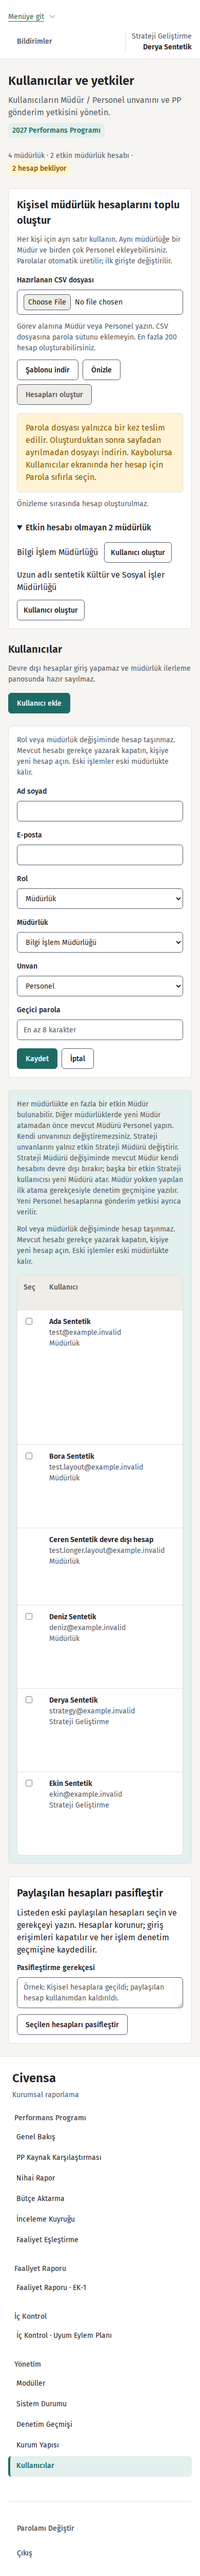
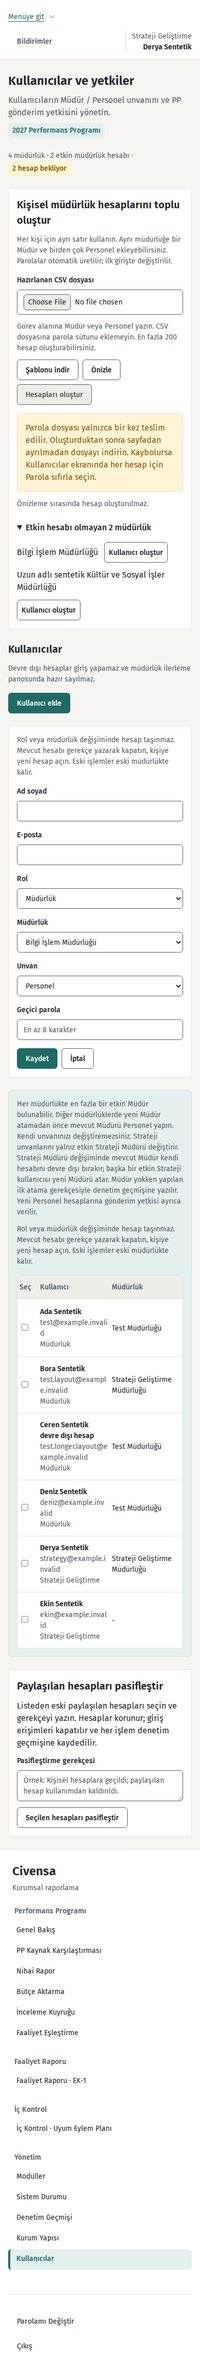
CIV-142 Kullanıcılar tablosu düzeni

Changed region(s): [[0.0308, 0.0, 0.9538, 0.9935], [0.3692, 0.8693, 0.4308, 0.9003]]

diff --git a/app/static/design/users.css b/app/static/design/users.css
@@ -33,7 +33,7 @@
 .users-page .button.primary { color: var(--surface); background: var(--accent); border-color: var(--accent); }
 .users-page .button.primary:hover { background: var(--accent-hover); border-color: var(--accent-hover); }
 .users-page .button:disabled { opacity: 1; color: var(--text-secondary); background: var(--surface-muted); border-color: var(--text-secondary); cursor: not-allowed; }
-.users-page .button.small { min-height: var(--row-height); padding: var(--space-1) var(--space-3); }
+.users-page .button.small { min-height: var(--row-height); padding: var(--space-1) var(--space-2); }
 .users-page details { margin-top: var(--space-6); }
 .users-page summary { width: fit-content; max-width: 100%; color: var(--text); font-size: var(--text-base); font-weight: var(--font-medium); cursor: pointer; }
 .users-page .missing-departments { display: grid; gap: var(--space-3); max-width: 44rem; margin: var(--space-4) 0 0; padding: 0; list-style: none; }
@@ -42,29 +42,35 @@
 .users-page .table-wrap { width: 100%; max-width: 100%; overflow-x: auto; border: 1px solid var(--border); border-radius: var(--radius); background: var(--surface); }
 .users-page .users-table { margin-top: var(--space-4); }
 .users-page table { width: 100%; min-width: 0; margin: 0; border-collapse: collapse; table-layout: fixed; }
-.users-page :is(th, td) { padding: var(--space-3); border-bottom: 1px solid var(--border); font-size: var(--text-sm); text-align: left; vertical-align: top; }
+.users-page :is(th, td) { padding: var(--space-3) var(--space-1); border-bottom: 1px solid var(--border); font-size: var(--text-sm); text-align: left; vertical-align: middle; }
 .users-page th { color: var(--text-secondary); background: var(--surface-muted); font-weight: var(--font-medium); }
-.users-page .users-table th:nth-child(1) { width: 5%; }
-.users-page .users-table th:nth-child(2) { width: 26%; }
-.users-page .users-table th:nth-child(3) { width: 16%; }
-.users-page .users-table th:nth-child(4) { width: 26%; }
-.users-page .users-table th:nth-child(5) { width: 12%; }
-.users-page .users-table th:nth-child(6) { width: 15%; }
+.users-page .users-table th:nth-child(1) { width: 4%; }
+.users-page .users-table th:nth-child(2) { width: 14%; }
+.users-page .users-table th:nth-child(3) { width: 14%; }
+.users-page .users-table th:nth-child(4) { width: 25%; }
+.users-page .users-table th:nth-child(5) { width: 16%; }
+.users-page .users-table th:nth-child(6) { width: 27%; }
 .users-page .user-identity :is(.user-email, .user-role) { display: block; }
 .users-page .user-email { overflow-wrap: break-word; }
-.users-page .user-position-controls { display: flex; align-items: center; flex-wrap: wrap; gap: var(--space-2); }
+.users-page .user-position-controls { display: flex; align-items: center; flex-wrap: nowrap; gap: var(--space-2); }
 .users-page .user-position-controls label { position: relative; flex: 1 1 7rem; }
-.users-page .user-position-controls .button { flex: 0 0 auto; }
+.users-page .user-position-controls .button { flex: 0 0 auto; white-space: nowrap; }
 .users-page tbody tr:last-child td { border-bottom: 0; }
 .users-page .status { display: inline-block; padding: var(--space-1) var(--space-2); border-radius: var(--radius); color: var(--text-secondary); background: var(--surface-muted); font-size: var(--text-sm); font-weight: var(--font-medium); }
 .users-page .status.approved { color: var(--success); background: var(--success-bg); }
 .users-page .status.warning { color: var(--warning); background: var(--warning-bg); }
 .users-page :is(.status.returned, .status.draft) { color: var(--text-secondary); background: var(--surface-muted); }
-.users-page .rowbuttons { flex-direction: column; margin-top: var(--space-2); }
-.users-page :is(.save-user-position, .toggle-submit-authorization) { margin-top: var(--space-2); }
-.users-page .password-reset { display: grid; gap: var(--space-2); min-width: 0; margin-top: var(--space-3); }
-.users-page .password-reset input { min-width: 0; }
-.users-page .password-reset button { justify-self: start; }
+.users-page .users-table td:nth-child(5) { white-space: nowrap; }
+.users-page .users-table td:last-child { white-space: nowrap; }
+.users-page .users-table :is(.status, .toggle-submit-authorization, .rowbuttons) { vertical-align: top; }
+.users-page .users-table .rowbuttons { display: inline-flex; align-items: flex-start; flex-flow: row nowrap; gap: var(--space-1); margin: 0; }
+.users-page .users-table .button.small { flex: 0 0 auto; white-space: nowrap; }
+.users-page .users-table .show-password-reset { border-color: transparent; background: transparent; color: var(--accent); font-size: var(--text-xs); }
+.users-page .users-table .show-password-reset:hover { background: var(--surface-muted); color: var(--accent-hover); }
+.users-page :is(.save-user-position, .toggle-submit-authorization) { margin-top: 0; }
+.users-page .password-reset { display: flex; align-items: center; flex-wrap: nowrap; gap: var(--space-2); min-width: 0; margin-top: var(--space-2); }
+.users-page .password-reset input { flex: 1 1 0; width: auto; min-width: 0; }
+.users-page .password-reset button { flex: 0 0 auto; }
 .users-page .users-retire label { width: 100%; max-width: 44rem; }
 .users-page textarea { min-height: var(--space-12); resize: vertical; }
 .users-page #retireUsersResult:not(:empty) { margin-top: var(--space-3); }

diff --git a/tests/test_users_design.py b/tests/test_users_design.py
@@ -231,6 +231,54 @@ def test_browser_layout_contrast_and_existing_controls(browser, accounts, users_
         expect(page.locator('#newUserForm')).to_be_visible()
         expect(page.locator('#userName')).to_be_focused()
         row = page.locator('tr[data-user]').filter(has_text='Ada Sentetik')
+        folder = os.getenv('CIVENSA_CIV130_SCREENSHOTS')
+        if phase == 'after' and width == 1440:
+            assert page.locator('.users-table tbody tr').evaluate_all("""rows => {
+              const unwrapped = rows.filter(row => {
+                const identity = row.querySelector('.user-identity');
+                return [...identity.querySelectorAll('b, .user-email')].every(el => {
+                  const range = document.createRange();
+                  range.selectNodeContents(el);
+                  return new Set([...range.getClientRects()].map(rect => Math.round(rect.top))).size <= 1;
+                });
+              });
+              return new Set(unwrapped.map(row => Math.round(row.getBoundingClientRect().height))).size <= 1;
+            }""")
+            button_layout = page.locator('.users-table .button.small').evaluate_all("""buttons => {
+              const heights = buttons.filter(button => button.getClientRects().length)
+                .map(button => button.getBoundingClientRect().height);
+              const paddings = buttons.map(button => getComputedStyle(button).padding);
+              const lines = buttons.map(button => {
+                const range = document.createRange();
+                range.selectNodeContents(button);
+                return new Set([...range.getClientRects()].map(rect => Math.round(rect.top))).size <= 1;
+              });
+              return {heights, paddings, lines};
+            }""")
+            assert (len(set(button_layout['heights'])) == 1 and
+                    len(set(button_layout['paddings'])) == 1 and
+                    all(button_layout['lines'])), button_layout
+            alignment = page.locator('.users-table tbody tr').evaluate_all("""rows => {
+              const pairs = rows.flatMap(row => {
+                const auth = row.querySelector('td:nth-child(5) .toggle-submit-authorization');
+                const authBadge = row.querySelector('td:nth-child(5) .status');
+                const active = row.querySelector('.toggle-user-active');
+                const activeBadge = row.querySelector('td:last-child > .status');
+                return [[authBadge, auth], [activeBadge, active]].filter(([badge, action]) => badge && action);
+              });
+              return pairs.map(([badge, action]) => [
+                badge.getBoundingClientRect().top, action.getBoundingClientRect().top
+              ]);
+            }""")
+            assert all(abs(badge_top - action_top) <= 2
+                       for badge_top, action_top in alignment), alignment
+        if folder and phase == 'after' and missing and width == 1440:
+            target = Path(folder)
+            target.mkdir(parents=True, exist_ok=True)
+            page.evaluate('document.activeElement.blur()')
+            page.mouse.move(0, 0)
+            page.evaluate('scrollTo(0, 0)')
+            page.screenshot(path=str(target / 'users-after-1440.png'), full_page=True)
         row.locator('.show-password-reset').click()
         expect(row.locator('.password-reset')).to_be_visible()
         expect(row.locator('.password-reset input')).to_be_focused()
@@ -256,6 +304,8 @@ def test_browser_layout_contrast_and_existing_controls(browser, accounts, users_
             columns = page.locator('#newUserForm').evaluate('el => getComputedStyle(el).gridTemplateColumns.split(" ").length')
             assert columns == (3 if width >= 1024 else 1)
             if width == 1440:
+                assert page.locator('.users-table td').evaluate_all(
+                    "cells => cells.every(cell => getComputedStyle(cell).verticalAlign === 'middle')")
                 assert page.locator('.bulk-user-import .actions .button:not([hidden])').evaluate_all(
                     'els => new Set(els.map(el => el.getBoundingClientRect().top)).size === 1')
             expect(row.locator('td:last-child > .status')).to_have_text('Etkin')
@@ -270,13 +320,17 @@ def test_browser_layout_contrast_and_existing_controls(browser, accounts, users_
                 page.keyboard.press('ArrowRight')
                 assert wrap.evaluate('el => el.scrollLeft > 0')
             else:
-                assert wrap.evaluate('el => el.scrollWidth === el.clientWidth')
+                wrap_dimensions = wrap.evaluate('el => [el.clientWidth, el.scrollWidth]')
+                assert wrap_dimensions[0] == wrap_dimensions[1], wrap_dimensions
+                assert row.locator('.password-reset').evaluate("""el => {
+                  const input = el.querySelector('input').getBoundingClientRect();
+                  const button = el.querySelector('button').getBoundingClientRect();
+                  return Math.abs(input.top - button.top) <= 2 && input.right <= button.left + 1;
+                }""")
                 assert root.locator('.user-email').evaluate_all(
                     """els => els.every(el => {
-                      const range = document.createRange();
-                      range.selectNodeContents(el);
                       return getComputedStyle(el).overflowWrap === 'break-word' &&
-                        new Set([...range.getClientRects()].map(rect => Math.round(rect.top))).size === 1;
+                        el.scrollWidth <= el.clientWidth;
                     })""")
                 position_select = page.get_by_role('combobox', name='Bora Sentetik unvanı')
                 expect(position_select).to_have_count(1)
@@ -286,7 +340,7 @@ def test_browser_layout_contrast_and_existing_controls(browser, accounts, users_
                 assert position_controls.evaluate("""el => {
                   const select = el.querySelector('select').getBoundingClientRect();
                   const button = el.querySelector('button').getBoundingClientRect();
-                  return select.top < button.bottom && button.top < select.bottom;
+                  return Math.abs(select.top - button.top) <= 2 && select.right <= button.left + 1;
                 }""")
             script = TEXT_PAIRS.replace('.section-index-page', '.users-page')
             pairs = set(map(tuple, page.evaluate(script)))
@@ -303,7 +357,6 @@ def test_browser_layout_contrast_and_existing_controls(browser, accounts, users_
             for control in root.locator('input[placeholder], textarea[placeholder]').all():
                 pairs.add(tuple(control.evaluate('el => [getComputedStyle(el, "::placeholder").color, getComputedStyle(el).backgroundColor]')))
             assert all(contrast(p) >= 4.5 for p in pairs), [(p, contrast(p)) for p in pairs if contrast(p) < 4.5]
-        folder = os.getenv('CIVENSA_CIV130_SCREENSHOTS')
         if folder and missing:
             target = Path(folder)
             target.mkdir(parents=True, exist_ok=True)
@@ -311,7 +364,8 @@ def test_browser_layout_contrast_and_existing_controls(browser, accounts, users_
             page.mouse.move(0, 0)
             page.locator('.table-wrap.section').evaluate('el => el.scrollLeft = 0')
             page.evaluate('scrollTo(0, 0)')
-            page.screenshot(path=str(target / f'users-{phase}-{width}.png'), full_page=True)
+            screenshot_name = 'users-after-1440-password-open.png' if phase == 'after' and width == 1440 else f'users-{phase}-{width}.png'
+            page.screenshot(path=str(target / screenshot_name), full_page=True)
             if width == 390:
                 page.locator('.table-wrap.section').evaluate('el => el.scrollLeft = el.scrollWidth')
                 page.screenshot(path=str(target / f'users-{phase}-status-390.png'), full_page=True)
